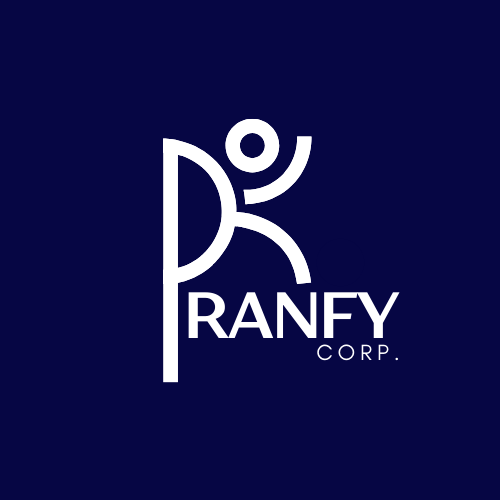
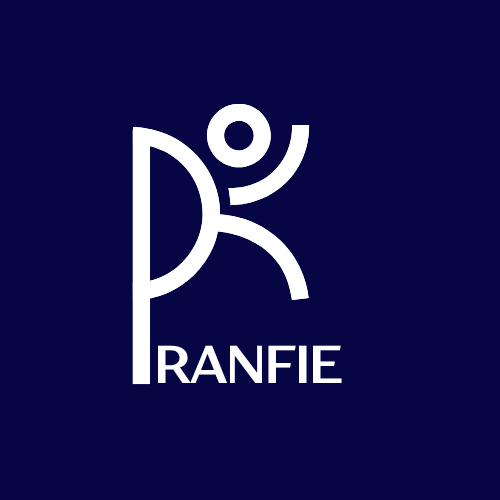
name fix

Changed region(s): [[0.24, 0.21, 0.81, 0.78]]

diff --git a/index.html b/index.html
@@ -5,30 +5,30 @@
   <meta name="viewport" content="width=device-width, initial-scale=1.0">
 
   <!-- Primary Meta Tags -->
-  <title>Mushfiqur Rahman Faiyaz (Mushfiq) — Founder of RanFy Inc.</title>
-  <meta name="title" content="Mushfiqur Rahman Faiyaz (Mushfiq) — Founder of RanFy Inc.">
-  <meta name="description" content="A thinker who loves to solve daily problems. Founder of RanFy Inc. Student from Bangladesh building apps that make daily life simpler and smarter.">
-  <meta name="keywords" content="Mushfiqur Rahman Faiyaz, Mushfiq, RanFy Inc, ExpendFy, PidiFie, Bangladesh, Founder, Software, Portfolio">
+  <title>Mushfiqur Rahman Faiyaz (Mushfiq) — Founder of RanFie Inc.</title>
+  <meta name="title" content="Mushfiqur Rahman Faiyaz (Mushfiq) — Founder of RanFie Inc.">
+  <meta name="description" content="A thinker who loves to solve daily problems. Founder of RanFie Inc. Student from Bangladesh building apps that make daily life simpler and smarter.">
+  <meta name="keywords" content="Mushfiqur Rahman Faiyaz, Mushfiq, RanFie, RanFie Inc, ExpendFy, PidiFie, Bangladesh, Founder, Software, Portfolio">
   <meta name="author" content="Mushfiqur Rahman Faiyaz">
   <meta name="theme-color" content="#060644">
 
   <!-- Open Graph / Facebook / LinkedIn / WhatsApp -->
   <meta property="og:type" content="website">
-  <meta property="og:url" content="https://ranfy.me/">
-  <meta property="og:title" content="Mushfiqur Rahman Faiyaz — Founder of RanFy Inc.">
+  <meta property="og:url" content="https://ranfie.me/">
+  <meta property="og:title" content="Mushfiqur Rahman Faiyaz — Founder of RanFie Inc.">
   <meta property="og:description" content="A thinker who loves to solve daily problems. Building ExpendFy & PidiFie.">
   <meta property="og:image" content="assets/images/og-preview.png">
 
   <!-- Twitter / X Card -->
   <meta property="twitter:card" content="summary_large_image">
-  <meta property="twitter:url" content="https://ranfy.me/">
-  <meta property="twitter:title" content="Mushfiqur Rahman Faiyaz — Founder of RanFy Inc.">
+  <meta property="twitter:url" content="https://ranfie.me/">
+  <meta property="twitter:title" content="Mushfiqur Rahman Faiyaz — Founder of RanFie Inc.">
   <meta property="twitter:description" content="A thinker who loves to solve daily problems. Building ExpendFy & PidiFie.">
   <meta property="twitter:image" content="assets/images/og-preview.png">
 
   <!-- Favicons -->
   <link rel="icon" type="image/svg+xml" href="assets/images/favicon.svg">
-  <link rel="apple-touch-icon" href="assets/images/ranfy-logo.png">
+  <link rel="apple-touch-icon" href="assets/images/ranfie-logo.png">
 
   <!-- Modern Google Fonts -->
   <link rel="preconnect" href="https://fonts.googleapis.com">
@@ -45,7 +45,7 @@
        ===================================================================== -->
   <div id="intro-curtain" role="dialog" aria-label="Intro Welcome Screen">
     <div class="intro-content">
-      <!-- RanFy Monogram with animated stroke paths -->
+      <!-- RanFie Monogram with animated stroke paths -->
       <svg class="intro-logo-svg" viewBox="0 0 500 500" fill="none" xmlns="http://www.w3.org/2000/svg">
         <g stroke="currentColor" stroke-linecap="round" stroke-linejoin="round">
           <path class="rf-draw rf-stem" d="M 171 138 L 171 381" stroke-width="15" stroke-linecap="square" />
@@ -55,15 +55,15 @@
           <path class="rf-draw rf-leg" d="M 233 214 C 265 224, 292 248, 308 282" stroke-width="14" stroke-linecap="square" />
         </g>
         <g class="rf-wordmark" fill="currentColor">
-          <path d="M 190 292 h 21 c 10 0 16 5 16 13 c 0 6 -4 10 -9 12 l 11 20 h -8 l -10 -19 h -13 v 19 h -7 z m 7 6 v 14 h 13 c 6 0 10 -3 10 -7 s -4 -7 -10 -7 z" />
-          <path d="M 234 337 l 15 -45 h 8 l 15 45 h -8 l -4 -12 h -18 l -4 12 z m 14 -18 h 14 l -7 -22 z" />
-          <path d="M 284 292 h 7 l 20 29 v -29 h 7 v 45 h -7 l -20 -29 v 29 h -7 z" />
-          <path d="M 328 292 h 27 v 6 h -20 v 13 h 17 v 6 h -17 v 20 h -7 z" />
-          <path d="M 364 292 h 8 l 11 18 l 11 -18 h 8 l -15 25 v 20 h -8 v -20 z" />
+          <path d="M 184 316 h 19 c 9 0 14 4 14 11 c 0 5 -3 8 -8 10 l 9 17 h -7 l -8 -16 h -12 v 16 h -7 z m 7 5 v 12 h 11 c 5 0 8 -2 8 -6 s -3 -6 -8 -6 z" />
+          <path d="M 224 354 l 13 -38 h 7 l 13 38 h -7 l -3 -10 h -16 l -3 10 z m 12 -15 h 12 l -6 -19 z" />
+          <path d="M 267 316 h 6 l 17 25 v -25 h 6 v 38 h -6 l -17 -25 v 25 h -6 z" />
+          <path d="M 307 316 h 23 v 5 h -17 v 11 h 14 v 5 h -14 v 17 h -6 z" />
+          <path d="M 340 316 h 6 v 38 h -6 z" />
+          <path d="M 356 316 h 24 v 5 h -18 v 11 h 15 v 5 h -15 v 12 h 18 v 5 h -24 z" />
         </g>
-        <text class="rf-subtext" x="332" y="357" fill="currentColor" font-family="'Plus Jakarta Sans', sans-serif" font-size="14.5" font-weight="700" letter-spacing="3.5">INC.</text>
       </svg>
-      <div class="intro-tagline">RANFY INC. • A THINKER SOLVING DAILY PROBLEMS</div>
+      <div class="intro-tagline">RANFIE INC. • A THINKER SOLVING DAILY PROBLEMS</div>
     </div>
     <button id="intro-skip-btn" class="intro-skip-btn" aria-label="Skip opening intro">Skip Intro [ESC]</button>
   </div>
@@ -85,13 +85,13 @@
     <div class="header-container">
 
       <!-- Logo & Brand link (Click 5 times for surprise easter egg!) -->
-      <a href="index.html" class="brand-link" title="RanFy Inc. (Click 5 times for an easter egg!)">
+      <a href="index.html" class="brand-link" title="RanFie Inc. (Click 5 times for an easter egg!)">
         <div class="brand-logo-wrap">
-          <img src="assets/images/ranfy-logo-transparent.png" alt="RanFy Inc. Logo" class="brand-logo-img logo-white">
-          <img src="assets/images/ranfy-logo-dark.png" alt="RanFy Inc. Logo" class="brand-logo-img logo-dark">
+          <img src="assets/images/ranfie-logo-transparent.png" alt="RanFie Inc. Logo" class="brand-logo-img logo-white">
+          <img src="assets/images/ranfie-logo-dark.png" alt="RanFie Inc. Logo" class="brand-logo-img logo-dark">
         </div>
         <div class="brand-text">
-          <span class="brand-name">RanFy</span>
+          <span class="brand-name">RanFie</span>
           <span class="brand-corp">INC.</span>
         </div>
       </a>
@@ -162,7 +162,7 @@
       </div>
 
       <!-- Welcome sub-heading -->
-      <div class="hero-intro-text">Founder of RanFy Inc.</div>
+      <div class="hero-intro-text">Founder of RanFie Inc.</div>
 
       <!-- Main Name with dramatic letter-by-letter reveal -->
       <h1 id="hero-title" class="hero-name">
@@ -210,7 +210,7 @@
         </div>
         <div class="fact-info">
           <span class="fact-label">Role</span>
-          <span class="fact-value">Founder at RanFy Inc.</span>
+          <span class="fact-value">Founder at RanFie Inc.</span>
         </div>
       </div>
 
@@ -246,7 +246,6 @@
       <!-- Fact 4: Live Bangladesh Clock with Day/Night state -->
       <div class="fact-card clock-card">
         <div class="fact-icon-wrap bd-clock-icon">
-          <!-- Animated Sun/Moon injected by js/clock.js -->
           <svg class="clock-icon-anim" viewBox="0 0 24 24">
             <circle cx="12" cy="12" r="10"></circle>
             <polyline points="12 6 12 12 16 14"></polyline>
@@ -270,14 +269,14 @@
       <div class="section-header">
         <div>
           <span class="section-tag">About Mushfiq</span>
-          <h2 id="about-title" class="section-title">The Story Behind RanFy</h2>
+          <h2 id="about-title" class="section-title">The Story Behind RanFie</h2>
         </div>
       </div>
 
       <div class="about-card">
         <div class="about-text">
           <p>
-            My name is <strong>Mushfiqur Rahman Faiyaz</strong>, though people simply call me <strong>Mushfiq</strong>. I am a student based in Bangladesh and the founder of <strong>RanFy Inc.</strong>
+            My name is <strong>Mushfiqur Rahman Faiyaz</strong>, though people simply call me <strong>Mushfiq</strong>. I am a student based in Bangladesh and the founder of <strong>RanFie Inc.</strong>
           </p>
           <p>
             I see myself as a thinker who notices the friction in daily life and turns those small, everyday annoyances into useful, intuitive applications. Rather than chasing unnecessary complexity, I love building lightweight tools that people can rely on every single day.
@@ -305,7 +304,7 @@
 
       <div class="apps-grid">
 
-        <!-- APP CARD 1: ExpendFy -->
+        <!-- APP CARD 1: ExpendFy (Kept exact spelling) -->
         <article class="app-card" data-app="expendfy">
           <div class="card-ambient-glow" aria-hidden="true"></div>
 
@@ -347,7 +346,7 @@
           </div>
         </article>
 
-        <!-- APP CARD 2: PidiFie -->
+        <!-- APP CARD 2: PidiFie (Kept exact spelling) -->
         <article class="app-card" data-app="pidifie">
           <div class="card-ambient-glow" aria-hidden="true"></div>
 
@@ -480,12 +479,12 @@
       <div class="footer-top">
         <div class="brand-link">
           <div class="brand-logo-wrap">
-            <img src="assets/images/ranfy-logo-transparent.png" alt="RanFy Inc." class="brand-logo-img logo-white">
-            <img src="assets/images/ranfy-logo-dark.png" alt="RanFy Inc." class="brand-logo-img logo-dark">
+            <img src="assets/images/ranfie-logo-transparent.png" alt="RanFie Inc." class="brand-logo-img logo-white">
+            <img src="assets/images/ranfie-logo-dark.png" alt="RanFie Inc." class="brand-logo-img logo-dark">
           </div>
           <div class="brand-text">
             <span class="brand-name">Mushfiqur Rahman Faiyaz</span>
-            <span class="brand-corp">Founder of RanFy Inc.</span>
+            <span class="brand-corp">Founder of RanFie Inc.</span>
           </div>
         </div>
 
@@ -507,7 +506,7 @@
 
       <div class="footer-bottom">
         <div class="footer-copy">
-          <span>&copy; <span id="year">2026</span> RanFy Inc. • Designed with craft for Mushfiq.</span>
+          <span>&copy; <span id="year">2026</span> RanFie Inc. • Designed with craft for Mushfiq.</span>
         </div>
         <button class="footer-replay-btn" onclick="replayIntro()">Replay Opening Intro</button>
       </div>
@@ -544,7 +543,6 @@
   <script src="js/clock.js"></script>
   <script src="js/main.js"></script>
   <script>
-    // Keep copyright year dynamic
     document.getElementById('year').textContent = new Date().getFullYear();
   </script>
 </body>

diff --git a/projects.html b/projects.html
@@ -5,15 +5,15 @@
   <meta name="viewport" content="width=device-width, initial-scale=1.0">
 
   <!-- Primary Meta Tags -->
-  <title>Projects — Mushfiqur Rahman Faiyaz | RanFy Inc.</title>
-  <meta name="title" content="Projects — Mushfiqur Rahman Faiyaz | RanFy Inc.">
-  <meta name="description" content="Explore applications built by Mushfiq at RanFy Inc., including ExpendFy (smart expense management) and PidiFie (privacy-first lightweight PDF editor).">
+  <title>Projects — Mushfiqur Rahman Faiyaz | RanFie Inc.</title>
+  <meta name="title" content="Projects — Mushfiqur Rahman Faiyaz | RanFie Inc.">
+  <meta name="description" content="Explore applications built by Mushfiq at RanFie Inc., including ExpendFy (smart expense management) and PidiFie (privacy-first lightweight PDF editor).">
   <meta name="theme-color" content="#060644">
 
   <!-- Open Graph -->
   <meta property="og:type" content="website">
-  <meta property="og:url" content="https://ranfy.me/projects.html">
-  <meta property="og:title" content="Projects — Mushfiqur Rahman Faiyaz | RanFy Inc.">
+  <meta property="og:url" content="https://ranfie.me/projects.html">
+  <meta property="og:title" content="Projects — Mushfiqur Rahman Faiyaz | RanFie Inc.">
   <meta property="og:description" content="Explore ExpendFy and PidiFie, built by Mushfiq to solve everyday problems.">
   <meta property="og:image" content="assets/images/og-preview.png">
 
@@ -23,7 +23,7 @@
 
   <!-- Favicons -->
   <link rel="icon" type="image/svg+xml" href="assets/images/favicon.svg">
-  <link rel="apple-touch-icon" href="assets/images/ranfy-logo.png">
+  <link rel="apple-touch-icon" href="assets/images/ranfie-logo.png">
 
   <!-- Google Fonts -->
   <link rel="preconnect" href="https://fonts.googleapis.com">
@@ -54,11 +54,11 @@
       <!-- Logo & Brand link -->
       <a href="index.html" class="brand-link" title="Back to Home (Click 5 times for surprise!)">
         <div class="brand-logo-wrap">
-          <img src="assets/images/ranfy-logo-transparent.png" alt="RanFy Inc. Logo" class="brand-logo-img logo-white">
-          <img src="assets/images/ranfy-logo-dark.png" alt="RanFy Inc. Logo" class="brand-logo-img logo-dark">
+          <img src="assets/images/ranfie-logo-transparent.png" alt="RanFie Inc. Logo" class="brand-logo-img logo-white">
+          <img src="assets/images/ranfie-logo-dark.png" alt="RanFie Inc. Logo" class="brand-logo-img logo-dark">
         </div>
         <div class="brand-text">
-          <span class="brand-name">RanFy</span>
+          <span class="brand-name">RanFie</span>
           <span class="brand-corp">INC.</span>
         </div>
       </a>
@@ -119,7 +119,7 @@
     <section class="projects-header-hero" aria-labelledby="projects-page-title">
       <div style="display: flex; align-items: center; gap: 0.6rem;">
         <span class="radar-beacon"></span>
-        <span class="section-tag">RanFy Inc. Portfolio</span>
+        <span class="section-tag">RanFie Inc. Portfolio</span>
       </div>
       <h1 id="projects-page-title" class="section-title" style="font-size: clamp(2.2rem, 5vw, 3.2rem);">
         Apps Built to Solve Everyday Problems
@@ -281,12 +281,12 @@
       <div class="footer-top">
         <div class="brand-link">
           <div class="brand-logo-wrap">
-            <img src="assets/images/ranfy-logo-transparent.png" alt="RanFy Inc." class="brand-logo-img logo-white">
-            <img src="assets/images/ranfy-logo-dark.png" alt="RanFy Inc." class="brand-logo-img logo-dark">
+            <img src="assets/images/ranfie-logo-transparent.png" alt="RanFie Inc." class="brand-logo-img logo-white">
+            <img src="assets/images/ranfie-logo-dark.png" alt="RanFie Inc." class="brand-logo-img logo-dark">
           </div>
           <div class="brand-text">
             <span class="brand-name">Mushfiqur Rahman Faiyaz</span>
-            <span class="brand-corp">Founder of RanFy Inc.</span>
+            <span class="brand-corp">Founder of RanFie Inc.</span>
           </div>
         </div>
 
@@ -308,7 +308,7 @@
 
       <div class="footer-bottom">
         <div class="footer-copy">
-          <span>&copy; <span id="year">2026</span> RanFy Inc. • Designed with craft for Mushfiq.</span>
+          <span>&copy; <span id="year">2026</span> RanFie Inc. • Designed with craft for Mushfiq.</span>
         </div>
         <div>
           <a href="index.html" style="color: var(--text-muted); text-decoration: none; font-size: 0.82rem;">Home Page</a>

diff --git a/js/main.js b/js/main.js
@@ -1,6 +1,6 @@
 /**
  * Main Application Logic & Interactive Experience
- * Mushfiqur Rahman Faiyaz (Mushfiq) — Founder of RanFy Inc.
+ * Mushfiqur Rahman Faiyaz (Mushfiq) — Founder of RanFie Inc.
  */
 
 (function () {
@@ -15,7 +15,7 @@
   function dismissIntro() {
     if (!introCurtain) return;
     introCurtain.classList.add('hidden');
-    sessionStorage.setItem('ranfy_intro_seen', 'true');
+    sessionStorage.setItem('ranfie_intro_seen', 'true');
     setTimeout(() => {
       introCurtain.style.display = 'none';
     }, 750);
@@ -35,7 +35,7 @@
   };
 
   if (introCurtain) {
-    const hasSeen = sessionStorage.getItem('ranfy_intro_seen');
+    const hasSeen = sessionStorage.getItem('ranfie_intro_seen');
     const prefersReducedMotion = window.matchMedia('(prefers-reduced-motion: reduce)').matches;
 
     if (hasSeen || prefersReducedMotion) {
@@ -165,7 +165,7 @@
 
   function applyTheme(theme) {
     root.setAttribute('data-theme', theme);
-    localStorage.setItem('ranfy_theme', theme);
+    localStorage.setItem('ranfie_theme', theme);
 
     if (themeToggleBtn) {
       themeToggleBtn.setAttribute('aria-label', `Switch to ${theme === 'dark' ? 'light' : 'dark'} mode`);
@@ -184,8 +184,8 @@
     }
   }
 
-  // Initialize theme from storage or default to dark (RanFy Midnight Navy)
-  const savedTheme = localStorage.getItem('ranfy_theme') || 'dark';
+  // Initialize theme from storage or default to dark (RanFie Midnight Navy)
+  const savedTheme = localStorage.getItem('ranfie_theme') || 'dark';
   applyTheme(savedTheme);
 
   if (themeToggleBtn) {
@@ -324,8 +324,8 @@
     btn.addEventListener('click', async (e) => {
       e.preventDefault();
       const shareData = {
-        title: 'Mushfiqur Rahman Faiyaz | Founder of RanFy Inc.',
-        text: 'A thinker who loves to solve daily problems. Founder of RanFy Inc.',
+        title: 'Mushfiqur Rahman Faiyaz | Founder of RanFie Inc.',
+        text: 'A thinker who loves to solve daily problems. Founder of RanFie Inc.',
         url: window.location.href
       };
 

diff --git a/css/main.css b/css/main.css
@@ -1,13 +1,13 @@
 /* ==========================================================================
    MUSHFIQUR RAHMAN FAIYAZ (MUSHFIQ) — PERSONAL PORTFOLIO
-   Founder of RanFy Inc. | Design System & Styling
+   Founder of RanFie Inc. | Design System & Styling
    ========================================================================== */
 
 /* --------------------------------------------------------------------------
    1. CSS VARIABLES & THEME TOKENS
    -------------------------------------------------------------------------- */
 :root {
-  /* Default: Deep Midnight Navy (from RanFy Logo #060644) */
+  /* Default: Deep Midnight Navy (from RanFie Logo #060644) */
   --bg-primary: #060644;
   --bg-secondary: #0a0c54;
   --bg-card: rgba(14, 17, 75, 0.65);

diff --git a/js/audio.js b/js/audio.js
@@ -8,7 +8,7 @@ class SoundEngine {
   constructor() {
     this.ctx = null;
     // Sound is OFF by default unless user previously explicitly turned it ON
-    this.enabled = localStorage.getItem('ranfy_sound_enabled') === 'true';
+    this.enabled = localStorage.getItem('ranfie_sound_enabled') === 'true';
     this.masterGain = null;
   }
 
@@ -30,7 +30,7 @@ class SoundEngine {
   toggleSound() {
     this.init();
     this.enabled = !this.enabled;
-    localStorage.setItem('ranfy_sound_enabled', this.enabled ? 'true' : 'false');
+    localStorage.setItem('ranfie_sound_enabled', this.enabled ? 'true' : 'false');
     if (this.enabled) {
       this.playChime(660, 0.08, 'sine');
     }

diff --git a/README.md b/README.md
@@ -1,7 +1,7 @@
 # Mushfiqur Rahman Faiyaz — Personal Portfolio Website
-### Founder of RanFy Inc. • "A thinker who loves to solve daily problems"
+### Founder of RanFie Inc. • "A thinker who loves to solve daily problems"
 
-Welcome to your personal portfolio website! This site is designed from the ground up to reflect your identity, your deep midnight navy RanFy branding, your apps (**ExpendFy** and **PidiFie**), and to deliver a high-tech "wow factor" experience on both phones and computers.
+Welcome to your personal portfolio website! This site is designed from the ground up to reflect your identity, your deep midnight navy RanFie branding, your apps (**ExpendFy** and **PidiFie**), and to deliver a high-tech "wow factor" experience on both phones and computers.
 
 ---
 
@@ -41,12 +41,13 @@ Here is the simple map of your project files:
   - **`clock.js`** — Live Bangladesh clock (UTC+6) with day/night indicator.
   - **`main.js`** — Handwriting logo intro, 3D card tilt, theme toggle, easter egg, and profile sharing.
 - **`assets/images/`**
-  - `ranfy-logo.png` — Your original RanFy Inc. logo.
-  - `ranfy-logo-transparent.png` — Transparent white logo for dark navy mode.
-  - `ranfy-logo-dark.png` — Deep navy logo for light mode.
+  - `ranfie-logo.png` — Your original RanFie Inc. logo.
+  - `ranfie-logo-transparent.png` — Transparent white logo for dark navy mode.
+  - `ranfie-logo-dark.png` — Deep navy logo for light mode.
   - `expendfy-logo.png` & `expendfy-preview.png` — ExpendFy branding & preview.
   - `pidifie-logo.png` & `pidifie-preview.png` — PidiFie branding & preview.
   - `og-preview.png` — The image people see when your website link is shared on WhatsApp, Facebook, LinkedIn, etc.
+  - `favicon.svg` — Tab icon.
 
 ---
 
@@ -65,7 +66,7 @@ Search for `hero-title` or `hero-tagline` in `index.html`:
 Just change the words inside and save the file!
 
 ### 2. Changing the About Me Section
-Search for `The Story Behind RanFy` or `about-text` in `index.html` to update the three or four sentences describing your philosophy.
+Search for `The Story Behind RanFie` or `about-text` in `index.html` to update the three or four sentences describing your philosophy.
 
 ---
 
@@ -141,5 +142,5 @@ You can launch this website to the entire world with free hosting on **GitHub Pa
 
 ---
 
-## 🌟 Built with Pride for RanFy Inc.
+## 🌟 Built with Pride for RanFie Inc.
 *“A thinker who loves to solve daily problems.”*
